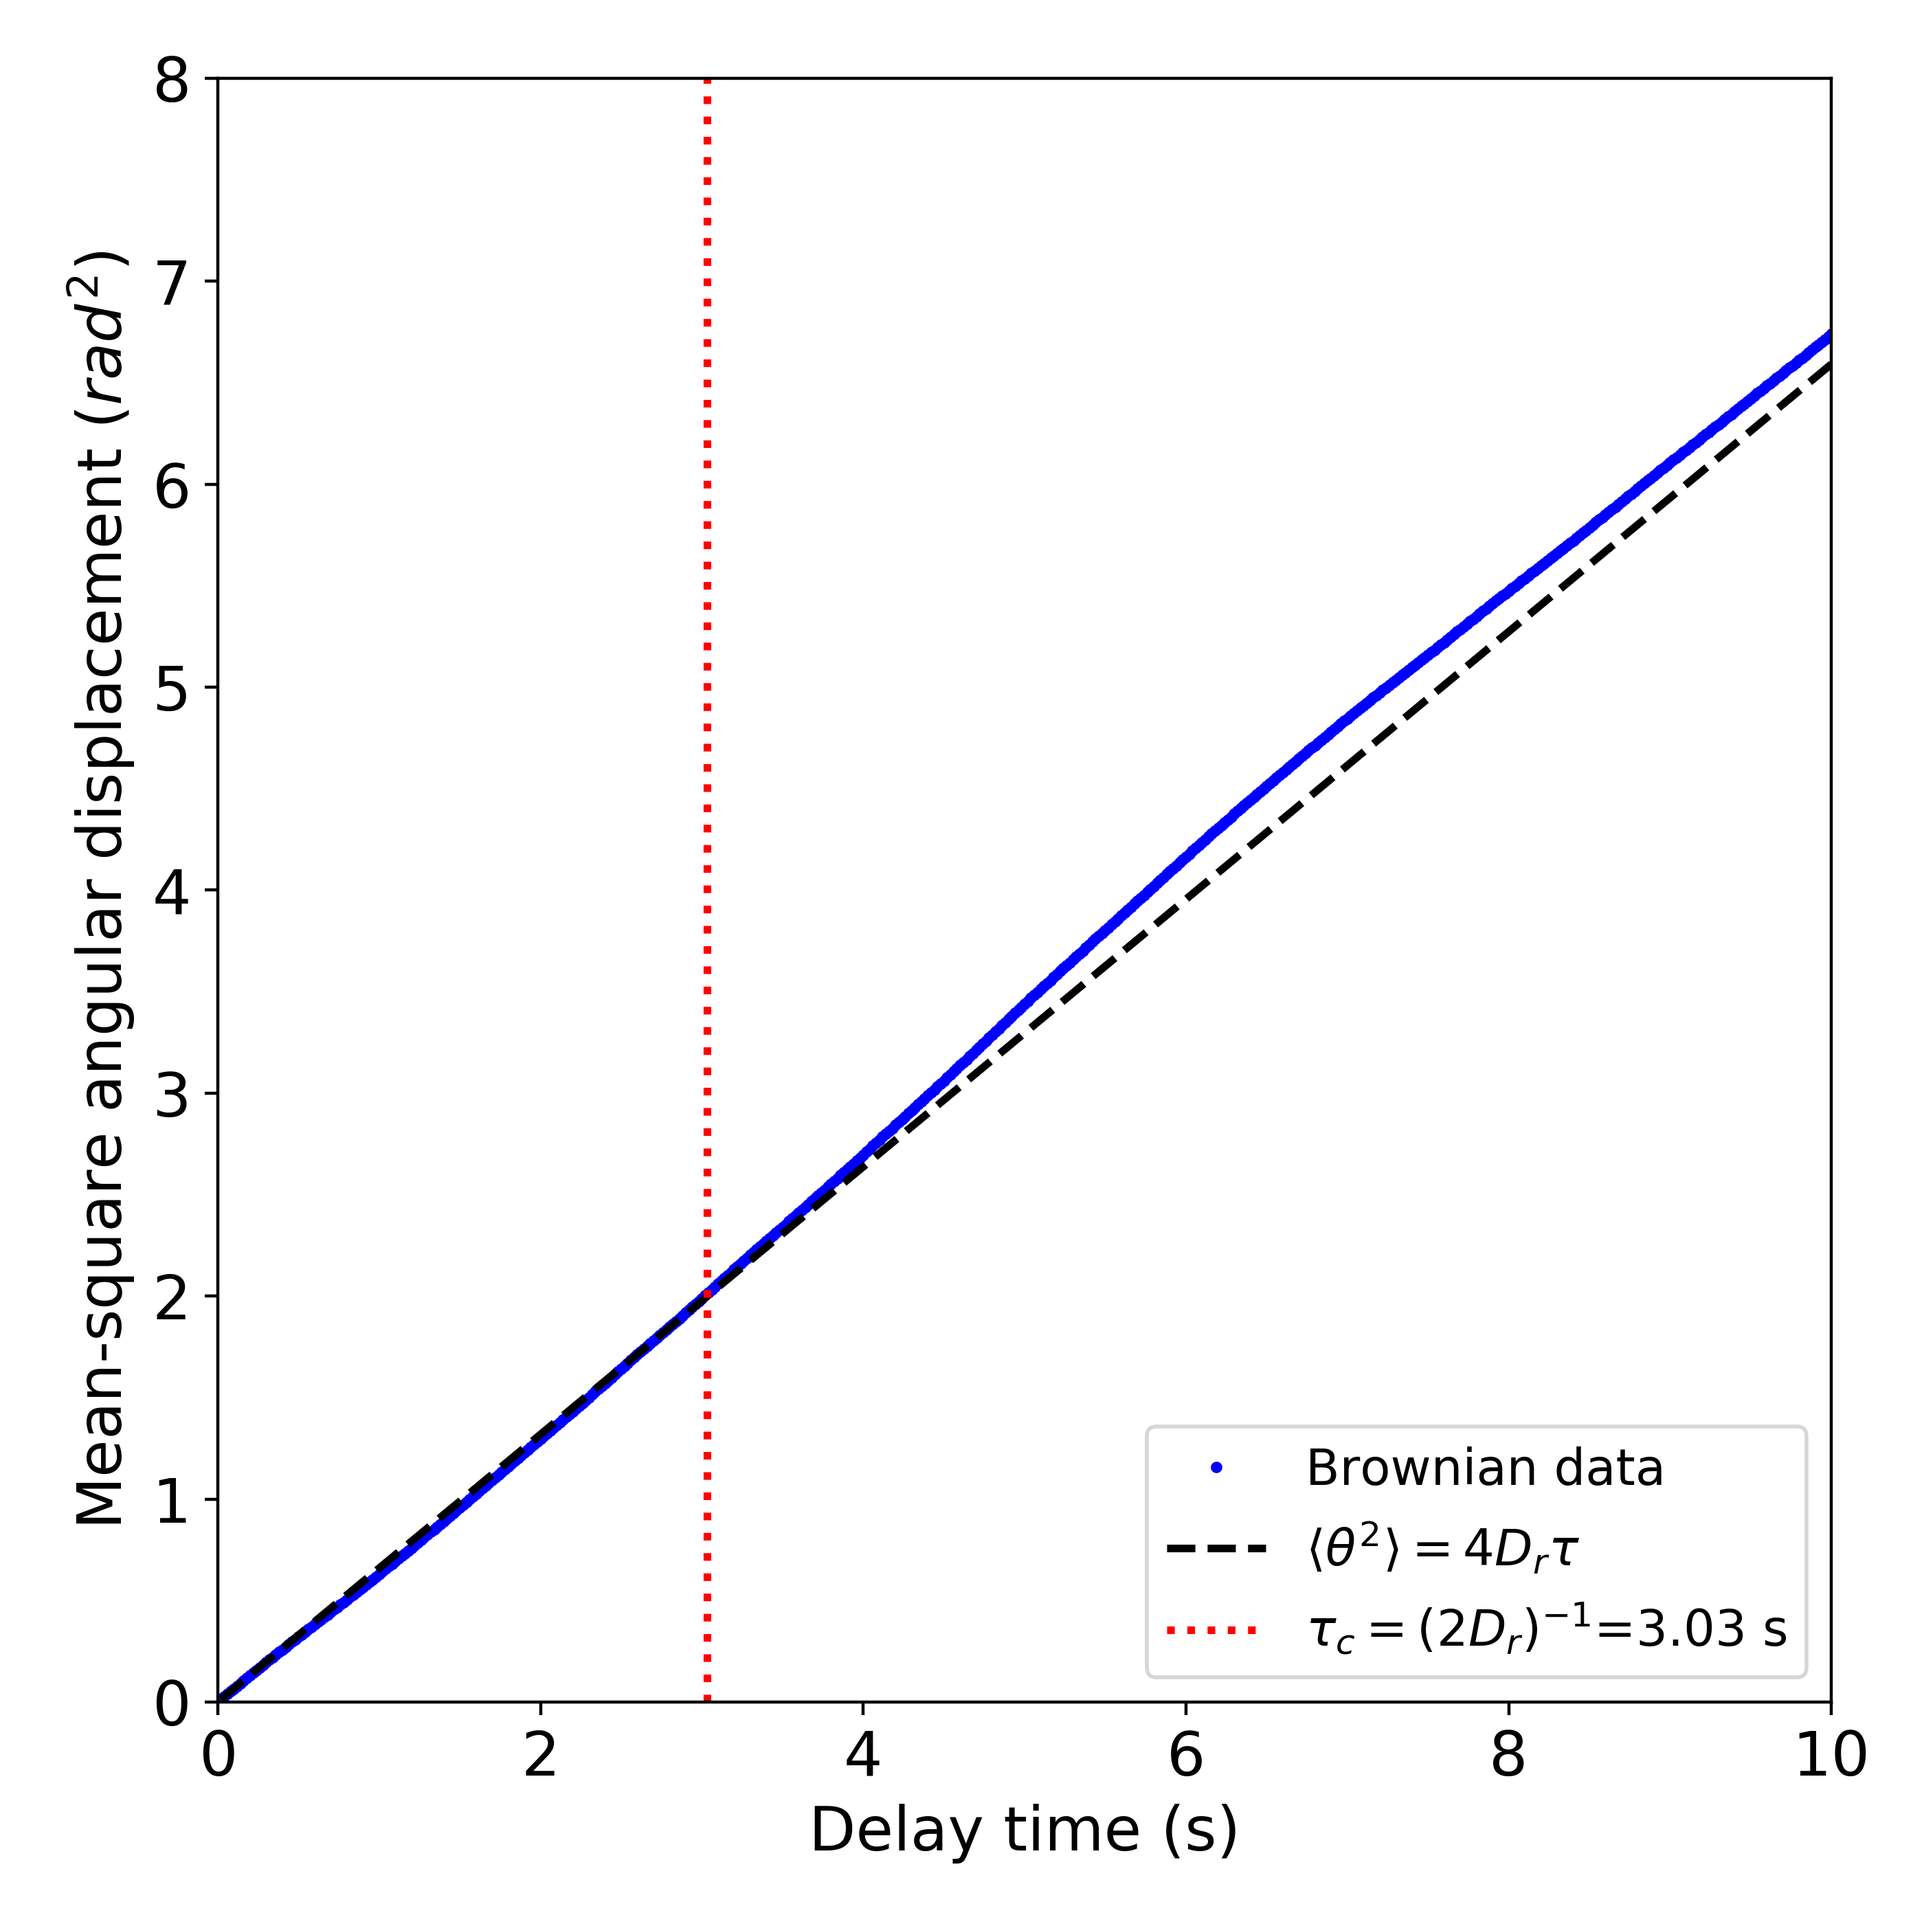
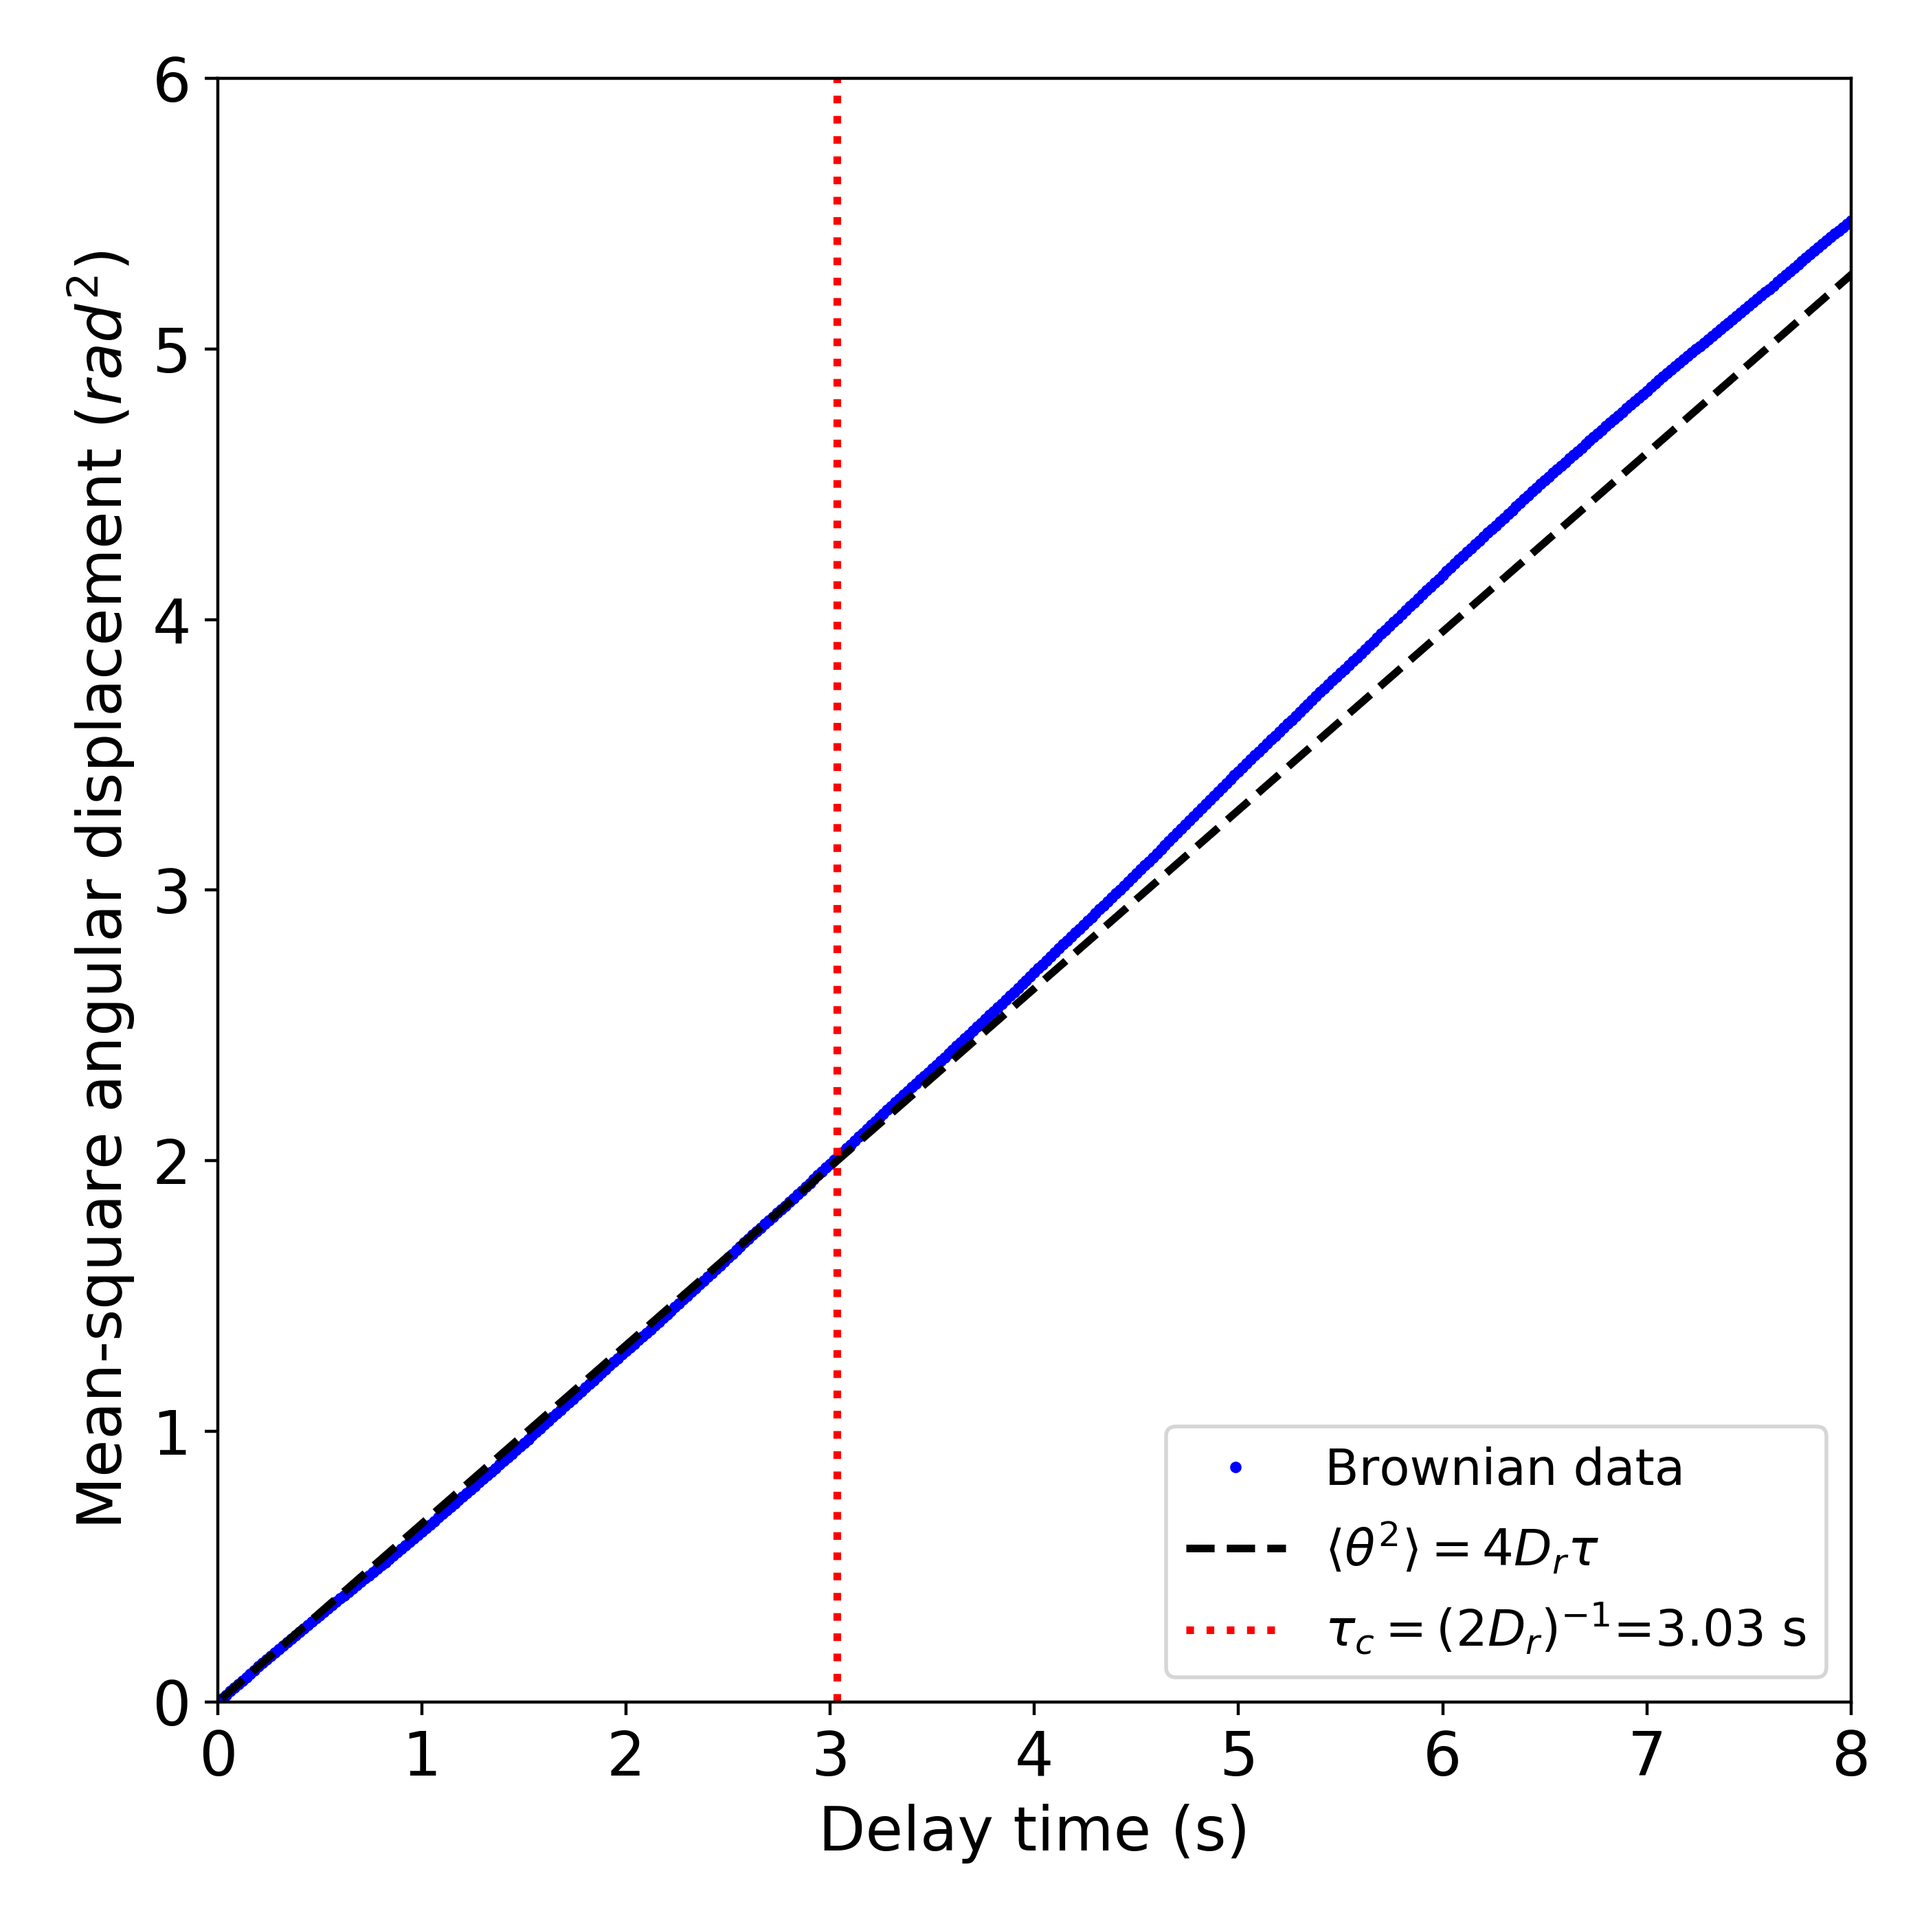
New plot routines and graphs

diff --git a/main.py b/main.py
@@ -19,6 +19,8 @@ You should have received a copy of the GNU General Public License
 along with this program. If not, see <https://www.gnu.org/licenses/>.
 """
 
+# NOTE: WIP CODE - Lots of extraneous data and figures for dissertation purposes 
+
 # external libraries
 import matplotlib.pyplot as plt
 import scipy.stats as ss
@@ -30,6 +32,9 @@ from data import Data
 from params import System
 from my_io import IO
 import figures as fg
+
+# NOTE: temp
+import matplotlib
 
 #----------------------------------------------------------------------------#
 #----------------------------------SIMULATION--------------------------------#
@@ -57,60 +62,108 @@ for time in System.timesteps[1:]:
                        System.time_step, System.cell_run, System.cell_tumble,
                        System.cell_tbm, System.cell_rbm)
 
+print("Number of tumbles = ",len(swimmer.run_durations))
 print('Done')
 
+matplotlib.rcParams.update({'font.size': 14})
+matplotlib.rc('xtick', labelsize=15) 
+matplotlib.rc('ytick', labelsize=15)
+matplotlib.rc('axes', labelsize=15)
+
 if System.cell_run and System.cell_tumble:
+    
+    plt.figure(figsize=(6,6))
+    # Run duration distribution
+    # FULL LINEAR PLOT
     mu = np.mean(swimmer.run_durations)
     sigma = np.std(swimmer.run_durations)
     num_runs = len(swimmer.run_durations)
-    plt.title(System.title+", $\lambda_T={0:5.3f}$, runs={1}".format(System.tumble_prob,num_runs))
-    plt.hist(swimmer.run_durations, bins='auto', density=True, edgecolor='black',
-        label="Model: $\mu={0:6.3f}$, $\sigma={1:6.3f}$".format(mu,sigma))
+    #plt.title(System.title+", $\lambda_T={0:5.3f}$, runs={1}".format(System.tumble_prob,num_runs))
+    mybins=np.arange(0,5,step=0.2)  # bin width = 'step' seconds
+    plt.hist(swimmer.run_durations, bins=mybins, density=True, edgecolor='black', facecolor='#1643ff',
+        label="Data: $\langle t \\rangle={0:6.2f}\pm{1:6.2f}$ s".format(mu,sigma))
     x=np.linspace(0,max(swimmer.run_durations),num=100)
     l = System.tumble_prob/System.time_step
     fit=l*np.exp(-l*x)
-    #plt.plot(x,fit,'r',lw=2,label="$\\frac{\lambda_T}{\Delta t} e^{-\lambda_T t/\Delta t }$"+
-             #" ; $\lambda_T={:5.3f}$, $\langle t \\rangle={:5.2f}$".format(System.tumble_prob, System.mean_run_dur))
-    plt.plot(x,fit,'r',lw=2,label="Fit: $\mu=\sigma={0:6.3f}$".format(System.mean_run_dur))
-    plt.yscale('log')
-    plt.ylim(0.001,1.1*l)
-    plt.xlim(0,max(x))
+    plt.plot(x,fit,'r',lw=2,label="$P(t)=\\frac{1}{\langle t \\rangle}e^{-t/\langle t \\rangle}=e^{-t}$")
+    
+    plt.yscale('linear')
+    plt.ylim(0,1)
+    plt.xlim(0,5)
     plt.ylabel('Probability density')
     plt.xlabel('Run duration (s)')
     #plt.grid(True)
+    plt.tight_layout()
     plt.legend()
-    plt.savefig("RunDurLog{0:s}.png".format(System.file_id),dpi=400)
-    plt.yscale('linear')
-    #plt.ylim(0,1.1*l)
     plt.savefig("RunDur{0:s}.png".format(System.file_id),dpi=400)
     plt.close()
+    
+    # INSET LOG PLOT - Place manually onto other plot
+    plt.figure(figsize=(7,7))
+    matplotlib.rc('xtick', labelsize=35) 
+    matplotlib.rc('ytick', labelsize=35)
+    matplotlib.rc('axes', labelsize=35)
+    plt.hist(swimmer.run_durations, bins=mybins, density=True, edgecolor='black', lw=1.5, facecolor='#1643ff',
+    label="Data: $\langle t \\rangle={0:6.2f}\pm{1:6.2f}$ s".format(mu,sigma))
+    plt.plot(x,fit,'r',lw=4)
+    plt.yscale('log')
+    plt.ylim(1e-3,1)
+    plt.xlim(0,5)
+    #plt.yticks([1e-3, 1.5e-1, 1e0])
+    plt.xticks([0,2.5,5])
+    plt.tight_layout()
+    plt.savefig("RunDurLog{0:s}.png".format(System.file_id),dpi=200)
+    plt.close()
+
+matplotlib.rcParams.update({'font.size': 14})
+matplotlib.rc('xtick', labelsize=15) 
+matplotlib.rc('ytick', labelsize=15)
+matplotlib.rc('axes', labelsize=15)
 
 if System.cell_rbm or System.cell_tumble:
-    ang=np.rad2deg(Data.compute_angles(np.array(swimmer.combined_history))[0])
-    ang=ang[np.where(ang>0.001)]  # remove negligible angles
-    mu = np.mean(ang)
-    sigma = np.std(ang)
-    plt.hist(ang, bins=50, density=True, edgecolor='black', label="Model: $\mu={0:7.3f}$, $\sigma={1:7.3f}$".format(mu,sigma))
-    title_dr=System.title+", $D_r={:6.4f}rad^2$".format(System.rot_diffusion_constant)
-    title_dr+="$s^{-1}$"
-    plt.title(title_dr)
-    if System.cell_rbm and not System.cell_tumble:
-        # CURRENTLY WRONG because dotted angles are used instead of recorded angles
-        x=np.linspace(-20,20,num=100)
-        sigma_fit = np.rad2deg(np.sqrt(4*System.rot_diffusion_constant*System.time_step))
-        fit=2*ss.norm.pdf(x,0,sigma_fit)
-        plt.plot(x,fit,'r',lw=2,label="Fit: $\mu=0$, $\sigma=4D_r\Delta t={0:7.3f}$".format(sigma_fit))
-    if System.cell_tumble and not System.cell_rbm:
-        x=np.linspace(0,180,num=100)
+    plt.figure(figsize=(8,6))
+    # Angle distribution
+    if System.cell_tumble:
+        #Tumble angles 
+        ang=np.rad2deg(np.array(swimmer.tumble_angles))
+        print('Tumble: ',np.max(ang), np.min(ang))
+        mu = np.mean(ang)
+        sigma = np.std(ang)
+        mybins=np.arange(-50,200,step=2)  # bin width = 'step' degrees
+        plt.hist(ang, bins=mybins, density=True, histtype='bar', facecolor='None', edgecolor='#1643ff',
+            lw=1, label="$\langle \\theta_{{tum}} \\rangle={0:6.2f}\pm{1:6.2f}^\circ$".format(mu,sigma))
+        # Tumble fit
+        x=np.linspace(-50,200,num=500)
         mu_fit = 68
         sigma_fit = 36
         fit=ss.norm.pdf(x,mu_fit,sigma_fit)
-        plt.plot(x,fit,'r',lw=2,label="Fit: $\mu={0:7.3f}$, $\sigma={1:7.3f}$".format(mu_fit,sigma_fit))
+        plt.plot(x,fit,color='#001e99',ls='-',lw=2,label="$\langle \\theta_{{tum}} \\rangle=68\pm36^\circ$")
+    if System.cell_rbm:
+        # RBM angles
+        ang=np.rad2deg(np.array(swimmer.RBM_ANGLES))
+        print('RBM: ',np.max(ang), np.min(ang))
+        mu = np.mean(ang)
+        sigma = np.std(ang)
+        mybins=np.arange(-25,25,step=2)  # bin width = 'step' degrees
+        plt.hist(ang, bins=mybins, density=True, histtype='bar', facecolor='None', edgecolor='r', lw=1, label="$\langle \\theta_r \\rangle={0:6.2f}\pm{1:6.2f}^\circ$".format(mu,sigma))
+        # RBM fit
+        x=np.linspace(-50,50,num=500)
+        sigma_fit = np.rad2deg(np.sqrt(4*System.rot_diffusion_constant*System.time_step))
+        fit=ss.norm.pdf(x,0,sigma_fit)
+        plt.plot(x,fit,color='#a30000',ls='-',lw=2,label="$\langle \\theta_r \\rangle=0\pm\sqrt{{4D_r\Delta t}}$")
     if System.cell_tumble and System.cell_rbm:
-        plt.yscale('log')
+        # Tumble and RBM
+        #plt.yscale('log')
+        pass
+        
+    plt.ylim(0,0.065)
+    plt.xlim(-40,180)
+    #plt.yticks(np.arange(0,0.07,step=0.01))
+    plt.xticks(np.arange(-40, 181, step=20))
     plt.ylabel('Probability density')
-    plt.xlabel('Angular deviation between adjacent timesteps (deg)')
+    plt.xlabel('Angular displacement (deg)')
     plt.legend()
+    plt.tight_layout()
     plt.savefig("AngDist{0:s}.png".format(System.file_id),dpi=400)
     plt.close()
 

diff --git a/quickplot.py b/quickplot.py
@@ -407,8 +407,8 @@ fit=6*Dkt*t
 plt.plot(t,msd,color='b',ms=2,marker='o',lw=0,ls='None',label="Brownian data")
 plt.plot(t,fit,color='k',ls='--',lw=2, label="$\langle r^2 \\rangle=6D\\tau$")
 plt.plot([tc,tc],[1e-3,1e2],color='r',ls=':',lw=2,label="$\\tau_c=(2D_r)^{-1}$="+"{:4.2f} s".format(tc))
-plt.ylim(0,16)
-plt.xlim(0,10)
+plt.ylim(0,12)
+plt.xlim(0,8)
 #plt.xscale('log')
 plt.xlabel('Delay time (s)')
 plt.ylabel("Mean-square displacement $(\mu m^2)$")
@@ -424,8 +424,8 @@ fit=4*Dr*t
 plt.plot(t,msad,color='b',ms=2,marker='o',lw=0,ls='None',label="Brownian data")
 plt.plot(t,fit,color='k',ls='--',lw=2, label="$\langle \\theta^2 \\rangle=4D_r\\tau$")
 plt.plot([tc,tc],[1e-3,1e2],color='r',ls=':',lw=2,label="$\\tau_c=(2D_r)^{-1}$="+"{:4.2f} s".format(tc))
-plt.ylim(0,8.0)
-plt.xlim(0,10)
+plt.ylim(0,6)
+plt.xlim(0,8)
 #plt.xscale('log')
 plt.xlabel('Delay time (s)')
 plt.ylabel("Mean-square angular displacement $(rad^2)$")
